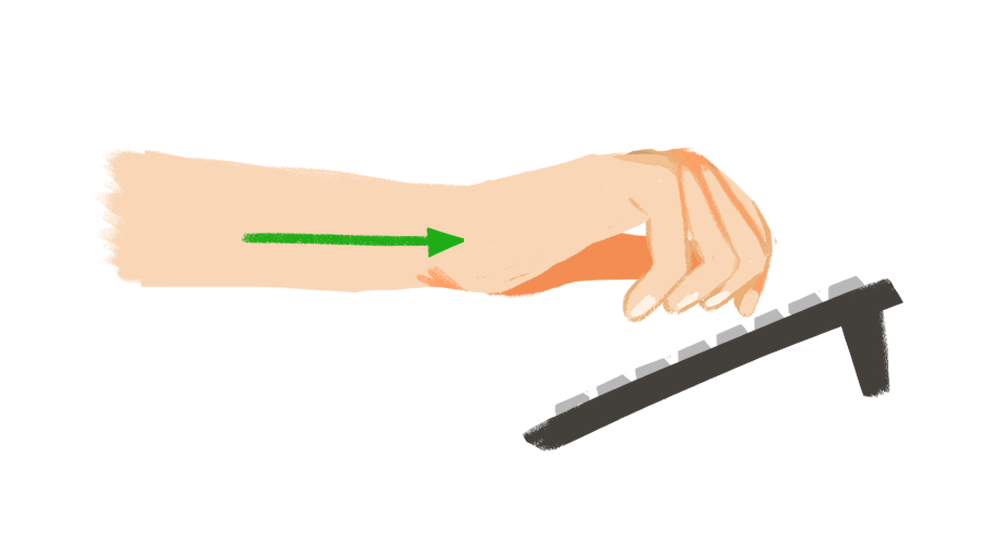
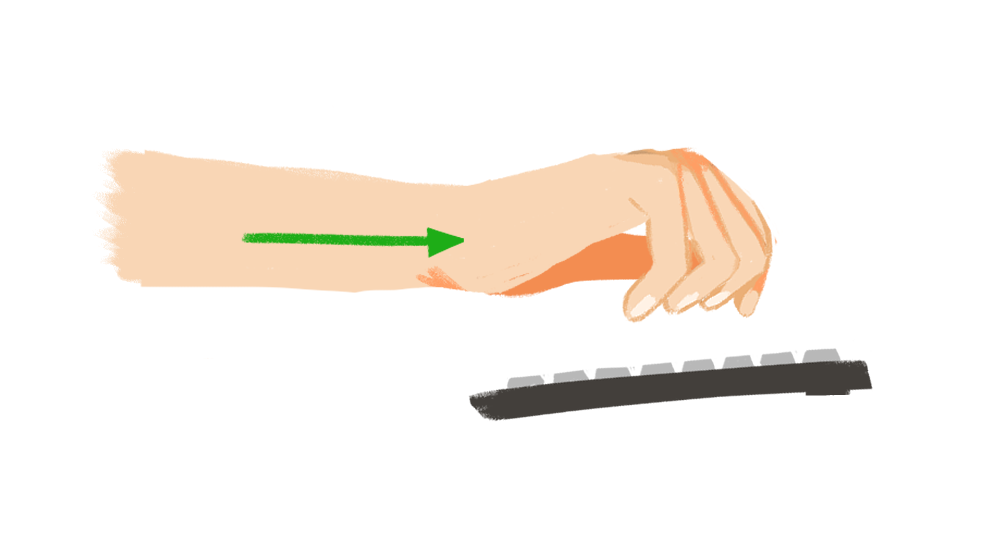
Finished wrist and added focus animation

Changed region(s): [[0.4669, 0.4875, 0.9026, 0.8226]]

diff --git a/my-app/src/WristInfo.js b/my-app/src/WristInfo.js
@@ -15,47 +15,76 @@ function WristInfo() {
   return (
     <div className="wrist">
         <p>
-            Wrist injuries are common among people who work with computers. According to a 2008
-            report by the United States Bureau of Labor Statistics, 6 out of 10 workers who use a computer
-            have experienced wrist pain. As we spend more time inside due to the coronavirus epidemic and we
-            are more dependent on computers, anyone from young children to professional office workers are at 
-            risk for wrist injuries. 
-        </p>
-        <img src={wristHurt} width="300px"></img>
+            The wrists connect your arms and hands. If you've ever sprained your wrist, you may have realized
+            how difficult it is to do regular things when your wrists aren't fully functional, and how your wrists are essential 
+            to do everyday tasks.
 
+            <br/><br/>
+            If we don't treat our wrists properly, we can develop repetitive stress injuries
+            that can make it harder to type, write, or even play video games. Over 8 million Americans suffer from carpal tunnel syndrome,
+            which causes pain and weakness in the wrist and negatively impacts hand function. 
+
+        </p>
+
+        <div className="standalone-img-box">
+            <img src={wristHurt} width="250px"></img>
+        </div>
+        
         <p>
             The easiest way to avoid wrist injury is to make sure that you are using you have the correct wrist
-            position when using your keyboard and mouse. blahblah
+            position when using your keyboard and mouse.
         </p>
 
-        <div className="keyboard">
-            <img src={keyboardBad} width="300px"></img>   
-            <img src={keyboardGood} width="300px"></img>
+        <div className="wrist-posture">
+            <div className="wrist-keyboard-posture-bad">
+                <img src={keyboardBad} width="300px"></img>  
+                <FontAwesomeIcon className = "times-wrist" size={"lg"} icon={faTimesCircle} color="#FF3838"/>
+                <div className="captions-box"> <p> Bad posture: Avoid bending your wrist or resting your wrist on a desk,
+                    and don't prop up the keyboard using the back legs because they naturally force your wrists to tilt upward. </p>
+                    </div>
+            </div>
+
+            <div className="wrist-keyboard-posture-good">
+                <img src={keyboardGood} width="300px"></img>
+                <FontAwesomeIcon className = "check-wrist" size={"lg"} icon={faCheckCircle} color="#7BEC22"/>
+                <div className="captions-box">  <p> Good posture: Keep your wrists straight and hovering slightly above the keyboard. Keep 
+                    the keyboard flat or tilted backwards.
+                </p>
+                    </div>
+            </div>
         </div>
 
-        <div className="labels">
-            <FontAwesomeIcon className = "times-wrist" size={"lg"} icon={faTimesCircle} color="#FF3838"/>
-            <FontAwesomeIcon className = "check-wrist" size={"lg"} icon={faCheckCircle} color="#7BEC22"/>
-        </div>
+        <div className="wrist-posture">
+            <div className="wrist-mouse-posture-bad">
+                <img src={mouseBad} width="300px"></img>  
+                <FontAwesomeIcon className = "times-wrist" size={"lg"} icon={faTimesCircle} color="#FF3838"/>
+                <div className="captions-box"> <p> Bad posture: Avoid resting your wrist on a desk, because it puts pressure on your tendons and 
+                    restricts blood circulation. </p>
+                    </div>
+            </div>
 
-
-        <div className="mouse">
-            <img src={mouseBad} width="300px"></img>
-            <img src={mouseGood} width="300px"></img>
-        </div>
-
-        <div className="labels">
-            <FontAwesomeIcon className = "times-wrist" size={"lg"} icon={faTimesCircle} color="#FF3838"/>
-            <FontAwesomeIcon className = "check-wrist" size={"lg"} icon={faCheckCircle} color="#7BEC22"/>
+            <div className="wrist-mouse-posture-good">
+                <img src={mouseGood} width="300px"></img>
+                <FontAwesomeIcon className = "check-wrist" size={"lg"} icon={faCheckCircle} color="#7BEC22"/>
+                <div className="captions-box">  <p> Good posture: Have a loose grip on the mouse, and keep your wrist lifted and parallel to your desk. </p>
+                    </div>
+            </div>
         </div>
 
 
         <p>
-            If you've been feeling pain in your wrists, wrist stretches can help! Follow the images below
-            to relieve strain in your wrists. blah blah blah
+            If you've been feeling pain in your wrists, wrist stretches can help! Do the stretches shown below on each hand and hold the position
+            for 15-30 seconds. 
         </p>
 
-        <img src={wristStretches} width="550px"></img>
+        <div className="standalone-img-box">
+            <img src={wristStretches} width="600px"></img>
+        </div>
+
+        <p>
+            If you're doing something wrist-intensive, try to stop and do these stretches every hour. Your wrists will thank you!
+        </p>
+
     </div>
   );
 }

diff --git a/my-app/src/InfoDisplay.js b/my-app/src/InfoDisplay.js
@@ -3,6 +3,7 @@ import React from 'react';
 import WristInfo from './WristInfo.js';
 import NeckInfo from './NeckInfo.js';
 import BackInfo from './BackInfo.js';
+import EyeInfo from './EyeInfo.js';
 
 
 class InfoDisplay extends React.Component {
@@ -30,7 +31,7 @@ class InfoDisplay extends React.Component {
 
         switch(this.props.info) {
             case 'wrist':
-                headerText = <p>Let's Learn about the Wrist!</p>
+                headerText = <p>Let's Learn about the Wrists!</p>
                 contentText = <WristInfo/>
                 break;
             case 'neck':
@@ -39,9 +40,7 @@ class InfoDisplay extends React.Component {
                 break;
             case 'eye':
                 headerText = <p>Let's Learn about the Eyes!</p>
-                contentText = 
-                <div>
-                </div>
+                contentText = <EyeInfo/>
                 break;
             case 'back':
                 headerText = <p>Let's Learn about the Back!</p>
@@ -51,11 +50,11 @@ class InfoDisplay extends React.Component {
                 headerText = <p>Welcome to our final project for PLME0400.</p>
                 contentText = <p>In this project, we wanted to raise awareness for remote 
                                     injuries that have become more common in the era of COVID-19.
-                                    Click any of the highlighted parts of the image to learn more about
-                                    how you to properly treat blah blah 
-                                    <br /> <br/>
 
-                                Pls help me fill out more content for this section
+                                    <br/><br/>
+                                    Click any of the highlighted body parts of the figure to learn more about
+                                    how you to properly treat it!
+
                                 </p>
         }
 
@@ -63,13 +62,8 @@ class InfoDisplay extends React.Component {
             <div key={this.props.info} className={`info-panel-wrapper ${this.state.toggler ? 'refresh':'refreshAlt'}`}>
                 <div className="info-panel">
                     <div className="info-header"> {headerText} </div>
-
                     < div className="info-content"> {contentText} </div>
-
                 </div>
-
-
-
             </div>
         );
     }

diff --git a/my-app/src/Main.js b/my-app/src/Main.js
@@ -20,20 +20,20 @@ class Main extends React.Component {
   }
 
   render() {
-    let displayInfo = <InfoDisplay info={this.state.info}/>
+    // className={`info-panel-wrapper ${this.state.toggler ? 'refresh':'refreshAlt'}`}
 
     return (
         <div className="main-wrapper">
             <div className="main-figure">
                 <img src={main} width="100%" alt="Main figure"></img>
-                <div className="dot eye-dot" onClick={() => this.changeInfo("eye")}></div>
-                <div className="dot neck-dot" onClick={() => this.changeInfo("neck")}></div>
-                <div className="dot wrist-dot" onClick={() => this.changeInfo("wrist")}></div>
-                <div className="dot back-dot" onClick={() => this.changeInfo("back")}></div> 
+                <div className={`dot eye-dot ${this.state.info==="eye" ? 'focused':''}`} onClick={() => this.changeInfo("eye")}> </div>
+                <div className={`dot neck-dot ${this.state.info==="neck" ? 'focused':''}`} onClick={() => this.changeInfo("neck")}></div>
+                <div className={`dot wrist-dot ${this.state.info==="wrist" ? 'focused':''}`} onClick={() => this.changeInfo("wrist")}></div>
+                <div className={`dot back-dot ${this.state.info==="back" ? 'focused':''}`} onClick={() => this.changeInfo("back")}></div> 
             </div>
 
             <div className="info-display">
-                {displayInfo}
+                <InfoDisplay info={this.state.info}/>
             </div>
         </div>
     );

diff --git a/my-app/src/EyeInfo.js b/my-app/src/EyeInfo.js
@@ -1,0 +1,35 @@
+import './InfoDisplay.css';
+
+import { FontAwesomeIcon } from '@fortawesome/react-fontawesome';
+import { faCheckCircle } from '@fortawesome/free-solid-svg-icons';
+import { faTimesCircle } from '@fortawesome/free-solid-svg-icons';
+
+import eyeGood from './images/eye_good_posture.png';
+import eyeBad from './images/eye_bad_posture.png';
+
+
+function EyeInfo() {
+  return (
+    <div className="eye">
+        <div className="eye-posture">
+            <div className="eye-posture-bad">
+                <img src={eyeBad} width="300px"></img>  
+                <FontAwesomeIcon className = "times-wrist" size={"lg"} icon={faTimesCircle} color="#FF3838"/>
+                <div className="captions-box"> <p> Bad posture:  </p>
+                    </div>
+            </div>
+
+            <div className="eye-posture-good">
+                <img src={eyeGood} width="300px"></img>
+                <FontAwesomeIcon className = "check-wrist" size={"lg"} icon={faCheckCircle} color="#7BEC22"/>
+                <div className="captions-box">  <p> Good posture: 
+                </p>
+                    </div>
+            </div>
+        </div>
+
+    </div>
+  );
+}
+
+export default EyeInfo;

diff --git a/my-app/src/BackInfo.js b/my-app/src/BackInfo.js
@@ -11,21 +11,21 @@ import backStretch from './images/back_stretch.png';
 
 function BackInfo() {
   return (
-    <div className="neck">
+    <div className="back">
         <p>
         Blurb
 
         </p>
 
         <div className="back-posture">
-            <div className="back-posture-good">
+            <div className="back-posture-bad">
                 <img src={backBad} width="300px"></img>   
                 <FontAwesomeIcon className = "times-wrist" size={"lg"} icon={faTimesCircle} color="#FF3838"/>
                 <div className="captions-box"> <p> Bad posture: Slouching forward too much or leaning too far back can create problems. </p>
                     </div>
             </div>
 
-            <div className="back-posture-bad">
+            <div className="back-posture-good">
                 <img src={backGood} width="300px"></img>
                 <FontAwesomeIcon className = "check-wrist" size={"lg"} icon={faCheckCircle} color="#7BEC22"/>
                 <div className="captions-box">  <p> Good posture: Sit up with your back straight and your shoulders back. Keep your feet flat on the 

diff --git a/my-app/src/NeckInfo.js b/my-app/src/NeckInfo.js
@@ -28,14 +28,14 @@ function NeckInfo() {
         </p>
 
         <div className="neck-posture">
-            <div className="neck-posture-good">
+            <div className="neck-posture-bad">
                 <img src={neckBad} width="200px"></img>   
                 <FontAwesomeIcon className = "times-wrist" size={"lg"} icon={faTimesCircle} color="#FF3838"/>
                 <div className="captions-box"> <p> Bad posture: The neck is tilted forward and down at the phone </p>
                     </div>
             </div>
 
-            <div className="neck-posture-bad">
+            <div className="neck-posture-good">
                 <img src={neckGood} width="200px"></img>
                 <FontAwesomeIcon className = "check-wrist" size={"lg"} icon={faCheckCircle} color="#7BEC22"/>
                 <div className="captions-box">  <p> Good posture: The phone is raised to eye level so that we can keep our necks align. </p>

diff --git a/my-app/src/InfoDisplay.css b/my-app/src/InfoDisplay.css
@@ -55,3 +55,29 @@
     flex-direction: column;
     align-items: center;
 }
+
+/* --------------- wrist --------------- */
+.wrist-posture {
+    display: flex;
+    justify-content: center;
+}
+
+.wrist-keyboard-posture-good, .wrist-keyboard-posture-bad,.wrist-mouse-posture-good, .wrist-mouse-posture-bad {
+    width: 300px;
+    display: flex;
+    flex-direction: column;
+    align-items: center;
+}
+
+/* --------------- eye --------------- */
+.eye-posture {
+    display: flex;
+    justify-content: center;
+}
+
+.eye-posture-good, .eye-posture-bad {
+    width: 300px;
+    display: flex;
+    flex-direction: column;
+    align-items: center;
+}

diff --git a/my-app/src/App.css b/my-app/src/App.css
@@ -59,7 +59,15 @@ img {
 
 .dot:hover {
   box-shadow: 3 3 15px #fa4f34;
+  background-image: radial-gradient(circle, red 20%, transparent 20%, transparent);
+  transform: scale(1.5);
+  transition: .2s ease-in-out;
   cursor: pointer;
+}
+
+.focused {
+  background-image: radial-gradient(circle, red 20%, transparent 20%, transparent);
+  transform: scale(1.5);
 }
 
 .eye-dot {
